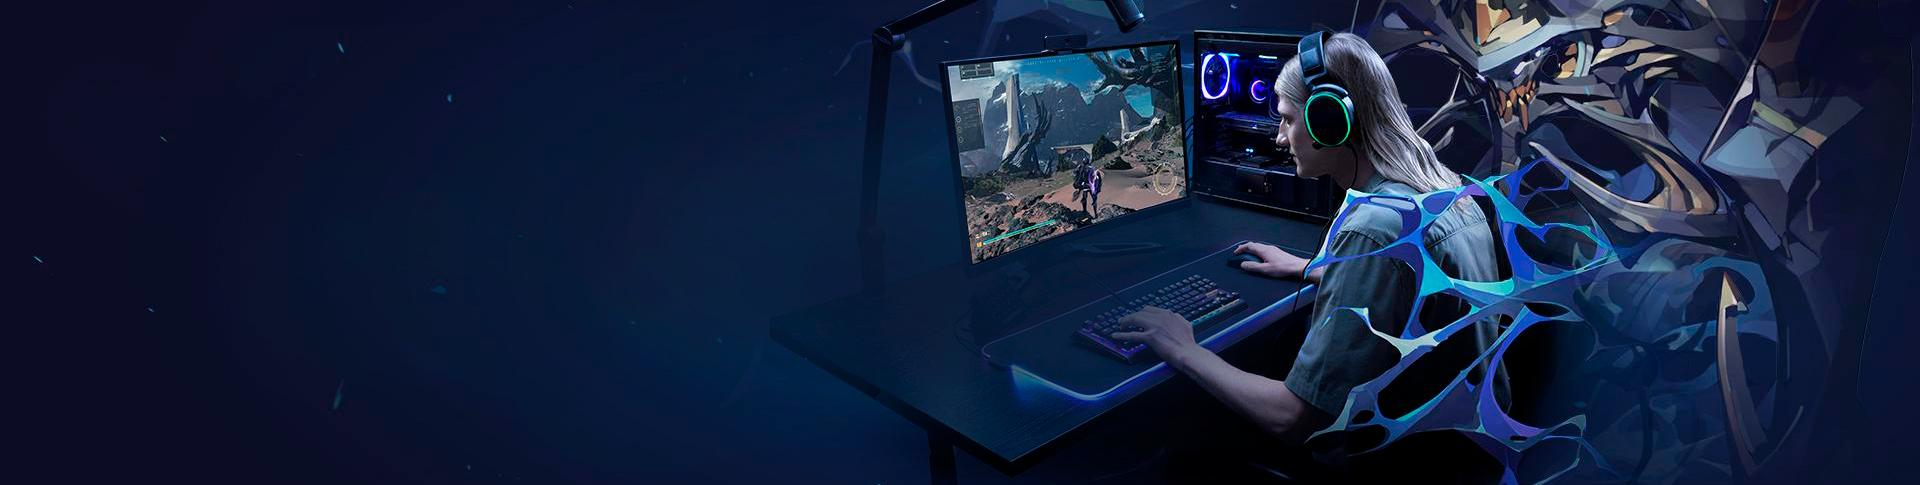
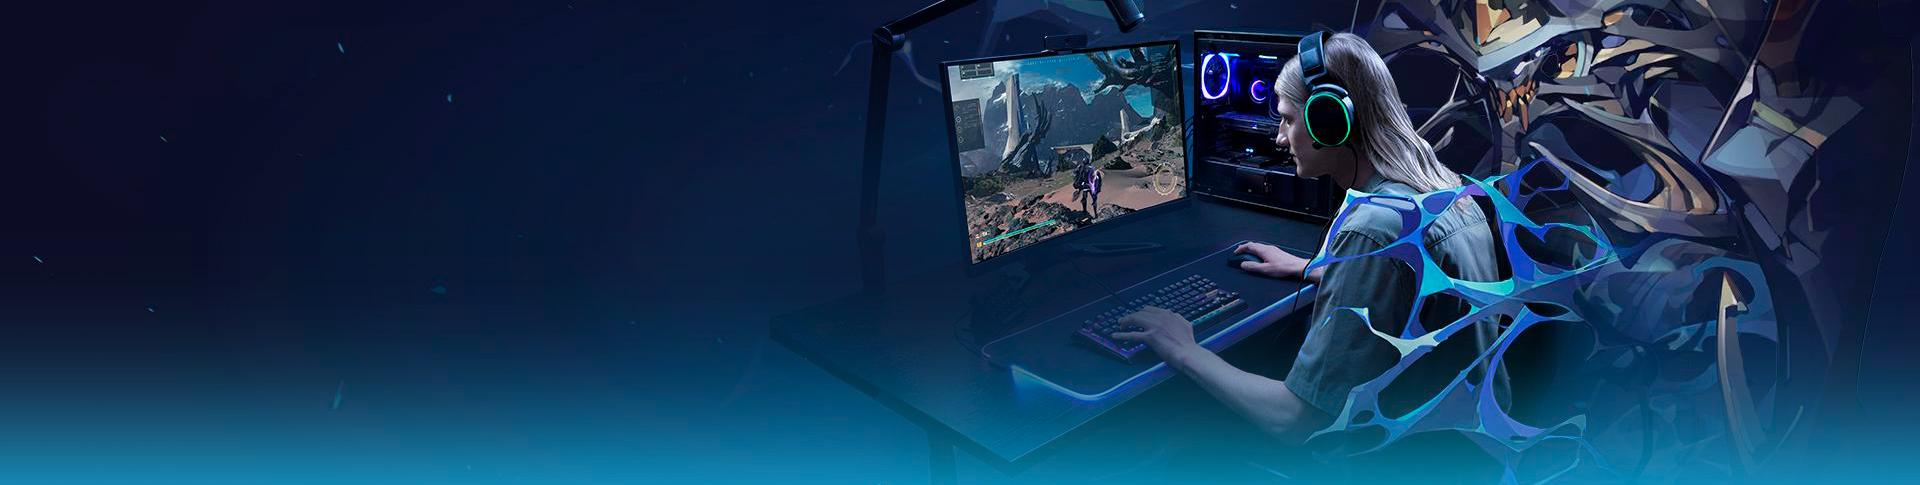
color fixes

Changed region(s): [[0.0, 0.6804, 1.0, 1.0]]

diff --git a/intel/css/style.css b/intel/css/style.css
@@ -1,2 +1,2 @@
-*,*::before,*::after{-webkit-box-sizing:border-box;box-sizing:border-box;margin:0;padding:0;border:none;text-decoration:none;border-radius:0px;-webkit-transition:all .2s ease-in-out 0s;transition:all .2s ease-in-out 0s;font-family:"Helvetica", sans-serif;font-weight:400}body,html{overflow-x:hidden}body{display:-webkit-box;display:-ms-flexbox;display:flex;-webkit-box-orient:vertical;-webkit-box-direction:normal;-ms-flex-direction:column;flex-direction:column;min-height:100vh;position:relative}section{position:relative}.text_bold{font-weight:bold !important}.text_white{color:#fff !important}.section__title,.section__title *{font-size:46px;line-height:55px;letter-spacing:1.3px;font-weight:500}.section__center{display:-webkit-box;display:-ms-flexbox;display:flex;width:100%;-webkit-box-align:center;-ms-flex-align:center;align-items:center;-webkit-box-pack:center;-ms-flex-pack:center;justify-content:center}.section__hidden{display:none;opacity:0;visibility:hidden;height:0px;overflow:hidden;font-size:0px;line-height:0px}.button{position:relative;display:inline-block;-webkit-appearance:none;-moz-appearance:none;appearance:none;background:transparent;cursor:pointer;white-space:nowrap;text-align:center;-webkit-user-select:none;-moz-user-select:none;-ms-user-select:none;user-select:none;overflow:hidden;-ms-flex-negative:0;flex-shrink:0;color:#ffffff;font-weight:400;text-transform:uppercase;font-size:14px;letter-spacing:1.6px;line-height:33px}.button::before,.button::after{content:'';display:inline-block;position:absolute;top:50%;right:30px;height:1px;width:7px;background-color:#fff}.button::before{-webkit-transform:rotate(45deg) translate(-50%, -50%);transform:rotate(45deg) translate(-50%, -50%)}.button::after{-webkit-transform:rotate(-45deg) translate(-35%, -50%);transform:rotate(-45deg) translate(-35%, -50%)}.button:hover{color:#ffffff;background-color:#004a86}.button:hover::before,.button:hover::after{background-color:#ffffff}.button_navy{background-color:#3a66b1;padding:5px 50px 5px 30px}.button_light{background-color:#70c7fc;padding:5px 50px 5px 30px}.button_product{color:#000;background-color:#f3d54e;padding:5px 62px 5px 53px}.button_product::before,.button_product::after{right:40px;background-color:#000}.container{margin:0 auto;position:relative;max-width:1230px;padding:0px 15px}.three-col__container{-webkit-transform:translateY(-60px);transform:translateY(-60px);display:-ms-grid;display:grid;-ms-grid-columns:(1fr)[3];grid-template-columns:repeat(3, 1fr);grid-column-gap:60px;width:100%;position:relative;z-index:2}.deco{display:-webkit-box;display:-ms-flexbox;display:flex;position:absolute;-webkit-box-orient:vertical;-webkit-box-direction:normal;-ms-flex-direction:column;flex-direction:column;height:150px;width:150px;z-index:1}.deco>*:nth-child(1){-ms-flex-item-align:start;align-self:flex-start}.deco>*:nth-child(2){-ms-flex-item-align:end;align-self:flex-end}.deco_white{background-color:#fff}.deco_light{background-color:#70c7fc}.deco_dark{background-color:#3a66b1}.deco_grey{background-color:#f0f0f0}.deco_reverse{-webkit-box-orient:vertical;-webkit-box-direction:reverse;-ms-flex-direction:column-reverse;flex-direction:column-reverse}.deco__small{width:60px;height:60px;-ms-flex-negative:0;flex-shrink:0}.deco__big{height:90px;width:90px;-ms-flex-negative:0;flex-shrink:0}.header{-webkit-box-flex:0;-ms-flex-positive:0;flex-grow:0;background-color:#ffffff;position:relative;z-index:10}.header__intel{background-color:#3a66b1;padding:10px;display:-webkit-box;display:-ms-flexbox;display:flex;justify-self:start;-webkit-box-align:center;-ms-flex-align:center;align-items:center;margin-left:auto;position:absolute;height:100%;-webkit-transform:translateX(-100%);transform:translateX(-100%)}.header__wrap{width:100%;display:-webkit-box;display:-ms-flexbox;display:flex;-webkit-box-align:center;-ms-flex-align:center;align-items:center;-webkit-box-pack:justify;-ms-flex-pack:justify;justify-content:space-between;padding:30px 0px}.header__wrap .logo{padding-left:35px}.nav{max-width:745px;width:100%}.nav__list{display:-webkit-box;display:-ms-flexbox;display:flex;width:100%;-webkit-box-align:center;-ms-flex-align:center;align-items:center;-webkit-box-pack:justify;-ms-flex-pack:justify;justify-content:space-between;list-style-type:none}.nav__link{font-size:20px;text-decoration:none;display:inline-block;font-weight:500;line-height:28px;color:#3a66b1}.nav__link:hover{color:#c81326}.burger{display:none;height:40px;width:40px;background-color:transparent;position:relative;border-radius:0px;-webkit-appearance:none;-moz-appearance:none;appearance:none;cursor:pointer}.burger:focus{outline:none}.burger::before,.burger::after,.burger span{background-color:#3a66b1;height:2px;position:absolute;display:inline-block;left:5px;-webkit-transform:translate(0, -50%);transform:translate(0, -50%);-webkit-transition:top .25s ease-in-out .4s, opacity 0s ease-in-out .25s, left .1s ease-in-out .25s, -webkit-transform .25s ease-in-out 0s;transition:top .25s ease-in-out .4s, opacity 0s ease-in-out .25s, left .1s ease-in-out .25s, -webkit-transform .25s ease-in-out 0s;transition:top .25s ease-in-out .4s, transform .25s ease-in-out 0s, opacity 0s ease-in-out .25s, left .1s ease-in-out .25s;transition:top .25s ease-in-out .4s, transform .25s ease-in-out 0s, opacity 0s ease-in-out .25s, left .1s ease-in-out .25s, -webkit-transform .25s ease-in-out 0s}.burger::before,.burger::after{content:''}.burger::before{width:25px;top:11px;-webkit-transform-origin:right;transform-origin:right}.burger span{width:20px;top:50%;-webkit-transform-origin:left;transform-origin:left}.burger::after{width:15px;top:30px}.burger.active::before,.burger.active::after,.burger.active span{-webkit-transition:top .25s ease-in-out 0s, opacity 0s ease-in-out .3s, left .25s ease-in-out .25s, -webkit-transform .25s ease-in-out .3s;transition:top .25s ease-in-out 0s, opacity 0s ease-in-out .3s, left .25s ease-in-out .25s, -webkit-transform .25s ease-in-out .3s;transition:top .25s ease-in-out 0s, transform .25s ease-in-out .3s, opacity 0s ease-in-out .3s, left .25s ease-in-out .25s;transition:top .25s ease-in-out 0s, transform .25s ease-in-out .3s, opacity 0s ease-in-out .3s, left .25s ease-in-out .25s, -webkit-transform .25s ease-in-out .3s;top:10px}.burger.active::before{-webkit-transform:translate(0, -50%) rotate(-45deg);transform:translate(0, -50%) rotate(-45deg)}.burger.active span{-webkit-transform:translate(0, -50%) rotate(45deg);transform:translate(0, -50%) rotate(45deg);left:13px}.burger.active::after{opacity:0}.mobile{position:fixed;background-color:#fff;z-index:9;top:0;right:0;width:40vw;height:100vh;-webkit-transform:translateX(100%);transform:translateX(100%);padding:80px 10px 10px}.mobile.active{-webkit-transform:translateX(0%);transform:translateX(0%)}.mobile .nav__list{-webkit-box-orient:vertical;-webkit-box-direction:normal;-ms-flex-direction:column;flex-direction:column}.mobile .nav__link{padding:5px}.mobile .nav__item{display:inline-block}.mobile .nav .nav__item+.nav__item{margin-top:8px}.banner{padding:55px 0px 180px}.banner .deco:nth-child(1){top:0;left:0}.banner .deco:nth-child(2){bottom:0;right:0}.banner__bg{position:absolute;width:100%;height:100%;left:0;top:0}.banner__bg img{height:100%;width:100%;-o-object-fit:cover;object-fit:cover;-o-object-position:center;object-position:center}.banner__body{display:-webkit-box;display:-ms-flexbox;display:flex;-webkit-box-orient:vertical;-webkit-box-direction:normal;-ms-flex-direction:column;flex-direction:column;-webkit-box-align:start;-ms-flex-align:start;align-items:flex-start;background-color:#3a66b1;padding:50px 60px;width:100%;max-width:840px;position:relative;z-index:3}.banner__body::after{content:'';display:block;position:absolute;bottom:0;right:0;width:60px;height:60px;background-color:#70c7fc;-webkit-transform:translate(100%, 100%);transform:translate(100%, 100%)}.banner__text{margin:30px 0px 40px;font-size:18px;line-height:30px;color:#c8d5ec}.banner .button{padding:5px 48px 5px 28px}.announces{background-color:#fff;padding-bottom:80px}.announces .button{padding:5px 60px 5px 40px}.announce{display:-webkit-box;display:-ms-flexbox;display:flex;-webkit-box-orient:vertical;-webkit-box-direction:normal;-ms-flex-direction:column;flex-direction:column;overflow:hidden;background-color:#f0f0f0}.announce__img{width:100%;height:205px}.announce__img img{width:100%;max-height:100%;height:100%;-o-object-fit:cover;object-fit:cover}.announce__body{padding:30px 60px;-webkit-box-flex:1;-ms-flex-positive:1;flex-grow:1}.announce__link{font-size:21px;line-height:30px;font-weight:500;position:relative;color:#3a66b1}.announce__link:hover{color:#c81326}.announce__link:hover::before,.announce__link:hover::after{background-color:#c81326}.announce__link::before,.announce__link::after{content:'';display:inline-block;position:absolute;bottom:8px;right:-20px;height:1px;width:7px;background-color:#3a66b1}.announce__link::before{-webkit-transform:rotate(45deg) translate(-50%, -50%);transform:rotate(45deg) translate(-50%, -50%)}.announce__link::after{-webkit-transform:rotate(-45deg) translate(-35%, -50%);transform:rotate(-45deg) translate(-35%, -50%)}.tests{padding:80px 0px;background-image:url(../img/tests_bg.jpg);background-position:center top;background-repeat:no-repeat}.tests .deco{top:0;left:1435px;-webkit-transform:translateY(-45px);transform:translateY(-45px)}.tests__title{font-weight:500;position:relative;color:#3a66b1;display:inline-block;text-align:center}.tests__title:hover{color:#c81326}.tests__title:hover svg{stroke:#c81326}.tests__title svg{-webkit-transition-delay:0s;transition-delay:0s;-webkit-transition-duration:0s;transition-duration:0s;height:24px;stroke:#3a66b1}.tests__wrap{display:-ms-grid;display:grid;-ms-grid-columns:(1fr)[2];grid-template-columns:repeat(2, 1fr);grid-column-gap:60px;margin-top:75px}.test{display:-webkit-box;display:-ms-flexbox;display:flex;-webkit-box-orient:vertical;-webkit-box-direction:normal;-ms-flex-direction:column;flex-direction:column;-webkit-box-align:start;-ms-flex-align:start;align-items:flex-start;height:100%;min-height:860px;width:100%}.test__img{width:100%;max-height:400px;height:100%;position:relative}.test__img img{position:absolute;width:auto;top:50%;-webkit-transform:translateY(-50%);transform:translateY(-50%)}.test__title{font-weight:500;font-size:21px;line-height:31px}.test__list{margin-top:30px}.test__list-item,.test__list-item a{color:#3a66b1;font-size:18px;line-height:33px;list-style-position:inside}.test__list-item a:hover{color:#c81326}.test__line{width:100%;height:1px;background-color:#d7d7d7;margin-top:auto}.test .button{padding:5px 52px 5px 35px;margin-top:40px}.horizons{padding:115px 0px 175px}.horizons .deco{top:0;right:1540px;-webkit-transform:translateY(-45px);transform:translateY(-45px)}.horizons__bg{position:absolute;width:100%;height:100%;left:0;top:0}.horizons__bg img{height:100%;width:100%;-o-object-fit:cover;object-fit:cover;-o-object-position:center;object-position:center}.horizons__body{padding-left:60px}.horizons__body .section__title{max-width:450px}.horizons__text{margin-top:25px;color:#c8d5ec;font-size:21px;font-weight:400;line-height:30px}.articles{padding-bottom:90px}.articles .deco{bottom:-105px;left:1375px}.articles .three-col__container{margin-bottom:15px}.articles .button{padding:5px 65px 5px 45px}.article{display:-webkit-box;display:-ms-flexbox;display:flex;-webkit-box-orient:vertical;-webkit-box-direction:normal;-ms-flex-direction:column;flex-direction:column;-webkit-box-align:stretch;-ms-flex-align:stretch;align-items:stretch;overflow:hidden;background-color:#f0f0f0}.article__img{width:100%;height:205px}.article__img img{width:100%;max-height:100%;height:100%;-o-object-fit:cover;object-fit:cover}.article__body{padding:37px 60px;-webkit-box-flex:1;-ms-flex-positive:1;flex-grow:1}.article__title{font-weight:500;font-size:21px;line-height:30px;color:#3a66b1}.article__text{margin-top:20px;font-weight:400;font-size:18px;line-height:30px;color:#3a66b1}.article:hover .article__title,.article:hover .article__text{color:#c81326}.small{padding:62px 0px;overflow:hidden}.small .section__title,.small .section__title *{text-align:center}.small__bg{left:0;top:0;position:absolute;width:100%;height:100%}.small__bg img{width:100%;height:100%;-o-object-fit:cover;object-fit:cover;-o-object-position:center;object-position:center}.small__link{position:relative}.small__link svg{-webkit-transition-delay:0s;transition-delay:0s;-webkit-transition-duration:0s;transition-duration:0s;height:24px;stroke:#fff}.small__link:hover{color:#c81326 !important}.small__link:hover svg{-webkit-transition-delay:0s;transition-delay:0s;-webkit-transition-duration:0s;transition-duration:0s;stroke:#c81326}.products{background-color:#fff;padding-bottom:90px}.products .deco{bottom:-105px;right:1525px}.products__wrap{display:-ms-grid;display:grid;-ms-grid-columns:1fr;grid-template-columns:1fr;grid-row-gap:60px;padding:60px 0px}.product{background-color:#f0f0f0;padding:60px;display:-webkit-box;display:-ms-flexbox;display:flex;-webkit-box-align:start;-ms-flex-align:start;align-items:flex-start}.product__body{margin-left:75px}.product__title{font-size:21px;font-weight:500;color:#3a66b1}.product__list{margin-top:20px}.product__list li{padding-left:2px;font-size:18px;font-weight:400;line-height:30px;list-style-position:inside}.product__list span{margin-left:5px}.product .button{margin-top:30px}.about{padding:60px 0px;background-color:#fff}.about_grey{background-color:#f0f0f0}.about__wrap{display:-ms-grid;display:grid;-ms-grid-columns:(1fr)[2];grid-template-columns:repeat(2, 1fr);grid-column-gap:120px;grid-row-gap:70px;position:relative;z-index:3}.about__item{display:-webkit-box;display:-ms-flexbox;display:flex;-webkit-box-orient:vertical;-webkit-box-direction:normal;-ms-flex-direction:column;flex-direction:column;position:relative}.about__item_nophoto{padding:30px 60px}.about__item:not(.about__item_nophoto) .about__title{padding:0px 60px;margin-bottom:20px}.about__item:nth-child(1) .deco{left:0;bottom:0;-webkit-transform:translate(-100%, 60px);transform:translate(-100%, 60px)}.about__item:nth-child(2) .deco{display:none}.about__item:nth-child(3) .deco{left:0;bottom:0;-webkit-transform:translate(-100%, 60px);transform:translate(-100%, 60px)}.about__item:nth-child(4) .deco{right:0;top:0;-webkit-transform:translate(100%, 15px);transform:translate(100%, 15px)}.about__big-img{height:100%;width:100%;position:relative}.about__big-img img{width:100%;height:100%;-o-object-fit:cover;object-fit:cover;position:absolute}.about__img{width:100%;-webkit-box-flex:1;-ms-flex-positive:1;flex-grow:1;margin-bottom:-3px}.about__img img{width:100%;min-height:325px;height:100%;-o-object-fit:cover;object-fit:cover}.about__title{font-weight:500;font-size:36px;line-height:55px;letter-spacing:1.3px}.about__text{font-size:18px;font-weight:400;line-height:30px;margin-top:20px}.about__list{padding-left:20px}.about__list .about__text{margin-top:10px}.about__body{padding:30px 60px 40px;height:100%}.about span.about__text{display:inline-block}.main{-webkit-box-flex:1;-ms-flex-positive:1;flex-grow:1}.footer{-webkit-box-flex:0;-ms-flex-positive:0;flex-grow:0;background-color:#f0f0f0;padding:70px 0px 60px;position:relative}.footer .deco:nth-child(1){bottom:0px;left:220px}.footer .deco:nth-child(2){top:0px;right:220px}.footer__wrap{display:-webkit-box;display:-ms-flexbox;display:flex;width:100%;-webkit-box-align:center;-ms-flex-align:center;align-items:center;-webkit-box-pack:center;-ms-flex-pack:center;justify-content:center;-webkit-box-orient:vertical;-webkit-box-direction:normal;-ms-flex-direction:column;flex-direction:column}.footer__logo{fill:#000}.footer__copyright,.footer__copyright *{display:inline-block;text-align:center;font-size:18px;font-weight:400;line-height:34px;letter-spacing:1.2px;margin-top:40px;color:#000}
+*,*::before,*::after{-webkit-box-sizing:border-box;box-sizing:border-box;margin:0;padding:0;border:none;text-decoration:none;border-radius:0px;-webkit-transition:all .2s ease-in-out 0s;transition:all .2s ease-in-out 0s;font-family:"Helvetica", sans-serif;font-weight:400}body,html{overflow-x:hidden}body{display:-webkit-box;display:-ms-flexbox;display:flex;-webkit-box-orient:vertical;-webkit-box-direction:normal;-ms-flex-direction:column;flex-direction:column;min-height:100vh;position:relative}section{position:relative}.text_bold{font-weight:bold !important}.text_white{color:#fff !important}.section__title,.section__title *{font-size:46px;line-height:55px;letter-spacing:1.3px;font-weight:500}.section__center{display:-webkit-box;display:-ms-flexbox;display:flex;width:100%;-webkit-box-align:center;-ms-flex-align:center;align-items:center;-webkit-box-pack:center;-ms-flex-pack:center;justify-content:center}.section__hidden{display:none;opacity:0;visibility:hidden;height:0px;overflow:hidden;font-size:0px;line-height:0px}.button{position:relative;display:inline-block;-webkit-appearance:none;-moz-appearance:none;appearance:none;background:transparent;cursor:pointer;white-space:nowrap;text-align:center;-webkit-user-select:none;-moz-user-select:none;-ms-user-select:none;user-select:none;overflow:hidden;-ms-flex-negative:0;flex-shrink:0;color:#ffffff;font-weight:400;text-transform:uppercase;font-size:14px;letter-spacing:1.6px;line-height:33px}.button::before,.button::after{content:'';display:inline-block;position:absolute;top:50%;right:30px;height:1px;width:7px;background-color:#fff}.button::before{-webkit-transform:rotate(45deg) translate(-50%, -50%);transform:rotate(45deg) translate(-50%, -50%)}.button::after{-webkit-transform:rotate(-45deg) translate(-35%, -50%);transform:rotate(-45deg) translate(-35%, -50%)}.button:hover{color:#ffffff;background-color:#004a86}.button:hover::before,.button:hover::after{background-color:#ffffff}.button_navy{background-color:#0066ba;padding:5px 50px 5px 30px}.button_light{background-color:#01c8ff;padding:5px 50px 5px 30px}.button_product{color:#000;background-color:#ffd823;padding:5px 62px 5px 53px}.button_product::before,.button_product::after{right:40px;background-color:#000}.container{margin:0 auto;position:relative;max-width:1230px;padding:0px 15px}.three-col__container{-webkit-transform:translateY(-60px);transform:translateY(-60px);display:-ms-grid;display:grid;-ms-grid-columns:(1fr)[3];grid-template-columns:repeat(3, 1fr);grid-column-gap:60px;width:100%;position:relative;z-index:2}.deco{display:-webkit-box;display:-ms-flexbox;display:flex;position:absolute;-webkit-box-orient:vertical;-webkit-box-direction:normal;-ms-flex-direction:column;flex-direction:column;height:150px;width:150px;z-index:1}.deco>*:nth-child(1){-ms-flex-item-align:start;align-self:flex-start}.deco>*:nth-child(2){-ms-flex-item-align:end;align-self:flex-end}.deco_white{background-color:#fff}.deco_light{background-color:#01c8ff}.deco_dark{background-color:#0066ba}.deco_grey{background-color:#f0f0f0}.deco_reverse{-webkit-box-orient:vertical;-webkit-box-direction:reverse;-ms-flex-direction:column-reverse;flex-direction:column-reverse}.deco__small{width:60px;height:60px;-ms-flex-negative:0;flex-shrink:0}.deco__big{height:90px;width:90px;-ms-flex-negative:0;flex-shrink:0}.header{-webkit-box-flex:0;-ms-flex-positive:0;flex-grow:0;background-color:#ffffff;position:relative;z-index:10}.header__intel{background-color:#0066ba;padding:10px;display:-webkit-box;display:-ms-flexbox;display:flex;justify-self:start;-webkit-box-align:center;-ms-flex-align:center;align-items:center;margin-left:auto;position:absolute;height:100%;-webkit-transform:translateX(-100%);transform:translateX(-100%)}.header__wrap{width:100%;display:-webkit-box;display:-ms-flexbox;display:flex;-webkit-box-align:center;-ms-flex-align:center;align-items:center;-webkit-box-pack:justify;-ms-flex-pack:justify;justify-content:space-between;padding:30px 0px}.header__wrap .logo{padding-left:35px}.nav{max-width:745px;width:100%}.nav__list{display:-webkit-box;display:-ms-flexbox;display:flex;width:100%;-webkit-box-align:center;-ms-flex-align:center;align-items:center;-webkit-box-pack:justify;-ms-flex-pack:justify;justify-content:space-between;list-style-type:none}.nav__link{font-size:20px;text-decoration:none;display:inline-block;font-weight:500;line-height:28px;color:#0066ba}.nav__link:hover{color:#c81326}.burger{display:none;height:40px;width:40px;background-color:transparent;position:relative;border-radius:0px;-webkit-appearance:none;-moz-appearance:none;appearance:none;cursor:pointer}.burger:focus{outline:none}.burger::before,.burger::after,.burger span{background-color:#0066ba;height:2px;position:absolute;display:inline-block;left:5px;-webkit-transform:translate(0, -50%);transform:translate(0, -50%);-webkit-transition:top .25s ease-in-out .4s, opacity 0s ease-in-out .25s, left .1s ease-in-out .25s, -webkit-transform .25s ease-in-out 0s;transition:top .25s ease-in-out .4s, opacity 0s ease-in-out .25s, left .1s ease-in-out .25s, -webkit-transform .25s ease-in-out 0s;transition:top .25s ease-in-out .4s, transform .25s ease-in-out 0s, opacity 0s ease-in-out .25s, left .1s ease-in-out .25s;transition:top .25s ease-in-out .4s, transform .25s ease-in-out 0s, opacity 0s ease-in-out .25s, left .1s ease-in-out .25s, -webkit-transform .25s ease-in-out 0s}.burger::before,.burger::after{content:''}.burger::before{width:25px;top:11px;-webkit-transform-origin:right;transform-origin:right}.burger span{width:20px;top:50%;-webkit-transform-origin:left;transform-origin:left}.burger::after{width:15px;top:30px}.burger.active::before,.burger.active::after,.burger.active span{-webkit-transition:top .25s ease-in-out 0s, opacity 0s ease-in-out .3s, left .25s ease-in-out .25s, -webkit-transform .25s ease-in-out .3s;transition:top .25s ease-in-out 0s, opacity 0s ease-in-out .3s, left .25s ease-in-out .25s, -webkit-transform .25s ease-in-out .3s;transition:top .25s ease-in-out 0s, transform .25s ease-in-out .3s, opacity 0s ease-in-out .3s, left .25s ease-in-out .25s;transition:top .25s ease-in-out 0s, transform .25s ease-in-out .3s, opacity 0s ease-in-out .3s, left .25s ease-in-out .25s, -webkit-transform .25s ease-in-out .3s;top:10px}.burger.active::before{-webkit-transform:translate(0, -50%) rotate(-45deg);transform:translate(0, -50%) rotate(-45deg)}.burger.active span{-webkit-transform:translate(0, -50%) rotate(45deg);transform:translate(0, -50%) rotate(45deg);left:13px}.burger.active::after{opacity:0}.mobile{position:fixed;background-color:#fff;z-index:9;top:0;right:0;width:40vw;height:100vh;-webkit-transform:translateX(100%);transform:translateX(100%);padding:80px 10px 10px}.mobile.active{-webkit-transform:translateX(0%);transform:translateX(0%)}.mobile .nav__list{-webkit-box-orient:vertical;-webkit-box-direction:normal;-ms-flex-direction:column;flex-direction:column}.mobile .nav__link{padding:5px}.mobile .nav__item{display:inline-block}.mobile .nav .nav__item+.nav__item{margin-top:8px}.banner{padding:55px 0px 180px}.banner .deco:nth-child(1){top:0;left:0}.banner .deco:nth-child(2){bottom:0;right:0}.banner__bg{position:absolute;width:100%;height:100%;left:0;top:0}.banner__bg img{height:100%;width:100%;-o-object-fit:cover;object-fit:cover;-o-object-position:center;object-position:center}.banner__body{display:-webkit-box;display:-ms-flexbox;display:flex;-webkit-box-orient:vertical;-webkit-box-direction:normal;-ms-flex-direction:column;flex-direction:column;-webkit-box-align:start;-ms-flex-align:start;align-items:flex-start;background-color:#0066ba;padding:50px 60px;width:100%;max-width:840px;position:relative;z-index:3}.banner__body::after{content:'';display:block;position:absolute;bottom:0;right:0;width:60px;height:60px;background-color:#01c8ff;-webkit-transform:translate(100%, 100%);transform:translate(100%, 100%)}.banner__text{margin:30px 0px 40px;font-size:18px;line-height:30px;color:#c3d6f4}.banner .button{padding:5px 48px 5px 28px}.announces{background-color:#fff;padding-bottom:80px}.announces .button{padding:5px 60px 5px 40px}.announce{display:-webkit-box;display:-ms-flexbox;display:flex;-webkit-box-orient:vertical;-webkit-box-direction:normal;-ms-flex-direction:column;flex-direction:column;overflow:hidden;background-color:#f0f0f0}.announce__img{width:100%;height:205px}.announce__img img{width:100%;max-height:100%;height:100%;-o-object-fit:cover;object-fit:cover}.announce__body{padding:30px 60px;-webkit-box-flex:1;-ms-flex-positive:1;flex-grow:1}.announce__link{font-size:21px;line-height:30px;font-weight:500;position:relative;color:#0066ba}.announce__link:hover{color:#c81326}.announce__link:hover::before,.announce__link:hover::after{background-color:#c81326}.announce__link::before,.announce__link::after{content:'';display:inline-block;position:absolute;bottom:8px;right:-20px;height:1px;width:7px;background-color:#0066ba}.announce__link::before{-webkit-transform:rotate(45deg) translate(-50%, -50%);transform:rotate(45deg) translate(-50%, -50%)}.announce__link::after{-webkit-transform:rotate(-45deg) translate(-35%, -50%);transform:rotate(-45deg) translate(-35%, -50%)}.tests{padding:80px 0px;background-image:url(../img/tests_bg.jpg);background-position:center top;background-repeat:no-repeat}.tests .deco{top:0;left:1443px;-webkit-transform:translateY(-45px);transform:translateY(-45px)}.tests__title{font-weight:500;position:relative;color:#0066ba;display:inline-block;text-align:center}.tests__title:hover{color:#c81326}.tests__title:hover svg{stroke:#c81326}.tests__title svg{-webkit-transition-delay:0s;transition-delay:0s;-webkit-transition-duration:0s;transition-duration:0s;height:24px;stroke:#0066ba}.tests__wrap{display:-ms-grid;display:grid;-ms-grid-columns:(1fr)[2];grid-template-columns:repeat(2, 1fr);grid-column-gap:60px;margin-top:75px}.test{display:-webkit-box;display:-ms-flexbox;display:flex;-webkit-box-orient:vertical;-webkit-box-direction:normal;-ms-flex-direction:column;flex-direction:column;-webkit-box-align:start;-ms-flex-align:start;align-items:flex-start;height:100%;min-height:860px;width:100%}.test__img{width:100%;max-height:400px;height:100%;position:relative}.test__img img{position:absolute;width:auto;top:50%;-webkit-transform:translateY(-50%);transform:translateY(-50%)}.test__title{font-weight:500;font-size:21px;line-height:31px}.test__list{margin-top:30px}.test__list-item,.test__list-item a{color:#0066ba;font-size:18px;line-height:33px;list-style-position:inside}.test__list-item a:hover{color:#c81326}.test__line{width:100%;height:1px;background-color:#d7d7d7;margin-top:auto}.test .button{padding:5px 52px 5px 35px;margin-top:40px}.horizons{padding:115px 0px 175px}.horizons .deco{top:0;right:1540px;-webkit-transform:translateY(-45px);transform:translateY(-45px)}.horizons__bg{position:absolute;width:100%;height:100%;left:0;top:0}.horizons__bg img{height:100%;width:100%;-o-object-fit:cover;object-fit:cover;-o-object-position:center;object-position:center}.horizons__body{padding-left:60px}.horizons__body .section__title{max-width:450px}.horizons__text{margin-top:25px;color:#c3d6f4;font-size:21px;font-weight:400;line-height:30px}.articles{padding-bottom:90px}.articles .deco{bottom:-105px;left:1383px}.articles .three-col__container{margin-bottom:15px}.articles .button{padding:5px 65px 5px 45px}.article{display:-webkit-box;display:-ms-flexbox;display:flex;-webkit-box-orient:vertical;-webkit-box-direction:normal;-ms-flex-direction:column;flex-direction:column;-webkit-box-align:stretch;-ms-flex-align:stretch;align-items:stretch;overflow:hidden;background-color:#f0f0f0}.article__img{width:100%;height:205px}.article__img img{width:100%;max-height:100%;height:100%;-o-object-fit:cover;object-fit:cover}.article__body{padding:37px 60px;-webkit-box-flex:1;-ms-flex-positive:1;flex-grow:1}.article__title{font-weight:500;font-size:21px;line-height:30px;color:#0066ba}.article__text{margin-top:20px;font-weight:400;font-size:18px;line-height:30px;color:#0066ba}.article:hover .article__title,.article:hover .article__text{color:#c81326}.small{padding:62px 0px;overflow:hidden}.small .section__title,.small .section__title *{text-align:center}.small__bg{left:0;top:0;position:absolute;width:100%;height:100%}.small__bg img{width:100%;height:100%;-o-object-fit:cover;object-fit:cover;-o-object-position:center;object-position:center}.small__link{position:relative}.small__link svg{-webkit-transition-delay:0s;transition-delay:0s;-webkit-transition-duration:0s;transition-duration:0s;height:24px;stroke:#fff}.small__link:hover{color:#c81326 !important}.small__link:hover svg{-webkit-transition-delay:0s;transition-delay:0s;-webkit-transition-duration:0s;transition-duration:0s;stroke:#c81326}.products{background-color:#fff;padding-bottom:90px}.products .deco{bottom:-105px;right:1525px}.products__wrap{display:-ms-grid;display:grid;-ms-grid-columns:1fr;grid-template-columns:1fr;grid-row-gap:60px;padding:60px 0px}.product{background-color:#f0f0f0;padding:60px;display:-webkit-box;display:-ms-flexbox;display:flex;-webkit-box-align:start;-ms-flex-align:start;align-items:flex-start}.product__body{margin-left:75px}.product__title{font-size:21px;font-weight:500;color:#0066ba}.product__list{margin-top:20px}.product__list li{padding-left:2px;font-size:18px;font-weight:400;line-height:30px;list-style-position:inside}.product__list span{margin-left:5px}.product .button{margin-top:30px}.about{padding:60px 0px;background-color:#fff}.about_grey{background-color:#f0f0f0}.about__wrap{display:-ms-grid;display:grid;-ms-grid-columns:(1fr)[2];grid-template-columns:repeat(2, 1fr);grid-column-gap:120px;grid-row-gap:70px;position:relative;z-index:3}.about__item{display:-webkit-box;display:-ms-flexbox;display:flex;-webkit-box-orient:vertical;-webkit-box-direction:normal;-ms-flex-direction:column;flex-direction:column;position:relative}.about__item_nophoto{padding:30px 60px}.about__item:not(.about__item_nophoto) .about__title{padding:0px 60px;margin-bottom:20px}.about__item:nth-child(1) .deco{left:0;bottom:0;-webkit-transform:translate(-100%, 60px);transform:translate(-100%, 60px)}.about__item:nth-child(2) .deco{display:none}.about__item:nth-child(3) .deco{left:0;bottom:0;-webkit-transform:translate(-100%, 60px);transform:translate(-100%, 60px)}.about__item:nth-child(4) .deco{right:0;top:0;-webkit-transform:translate(100%, 15px);transform:translate(100%, 15px)}.about__big-img{height:100%;width:100%;position:relative}.about__big-img img{width:100%;height:100%;-o-object-fit:cover;object-fit:cover;position:absolute}.about__img{width:100%;-webkit-box-flex:1;-ms-flex-positive:1;flex-grow:1;margin-bottom:-3px}.about__img img{width:100%;min-height:325px;height:100%;-o-object-fit:cover;object-fit:cover}.about__title{font-weight:500;font-size:36px;line-height:55px;letter-spacing:1.3px}.about__text{font-size:18px;font-weight:400;line-height:30px;margin-top:20px}.about__list{padding-left:20px}.about__list .about__text{margin-top:10px}.about__body{padding:30px 60px 40px;height:100%}.about span.about__text{display:inline-block}.main{-webkit-box-flex:1;-ms-flex-positive:1;flex-grow:1}.footer{-webkit-box-flex:0;-ms-flex-positive:0;flex-grow:0;background-color:#f0f0f0;padding:70px 0px 60px;position:relative}.footer .deco:nth-child(1){bottom:0px;left:220px}.footer .deco:nth-child(2){top:0px;right:220px}.footer__wrap{display:-webkit-box;display:-ms-flexbox;display:flex;width:100%;-webkit-box-align:center;-ms-flex-align:center;align-items:center;-webkit-box-pack:center;-ms-flex-pack:center;justify-content:center;-webkit-box-orient:vertical;-webkit-box-direction:normal;-ms-flex-direction:column;flex-direction:column}.footer__logo{fill:#000}.footer__copyright,.footer__copyright *{display:inline-block;text-align:center;font-size:18px;font-weight:400;line-height:34px;letter-spacing:1.2px;margin-top:40px;color:#000}
 /*# sourceMappingURL=style.css.map */

diff --git a/intel/sass/style.sass b/intel/sass/style.sass
@@ -1,6 +1,6 @@
-$text_blue: #3a66b1
-$text_light: #c8d5ec
-$light_blue: #70c7fc
+$text_blue: #0066ba
+$text_light: #c3d6f4
+$light_blue: #01c8ff
 $hover_red: #c81326
 $hover_blue: #004a86
     
@@ -97,7 +97,7 @@ section
         padding: 5px 50px 5px 30px
     &_product
         color: #000
-        background-color: #f3d54e
+        background-color: #ffd823
         padding: 5px 62px 5px 53px
         &::before, &::after
             right: 40px
@@ -358,7 +358,7 @@ section
     background-repeat: no-repeat
     .deco
         top: 0
-        left: 1435px
+        left: 1443px
         transform: translateY(-45px)
     &__title
         font-weight: 500
@@ -454,7 +454,7 @@ section
     padding-bottom: 90px
     .deco
         bottom: -105px
-        left: 1375px
+        left: 1383px
     .three-col__container
         margin-bottom: 15px
     .button
